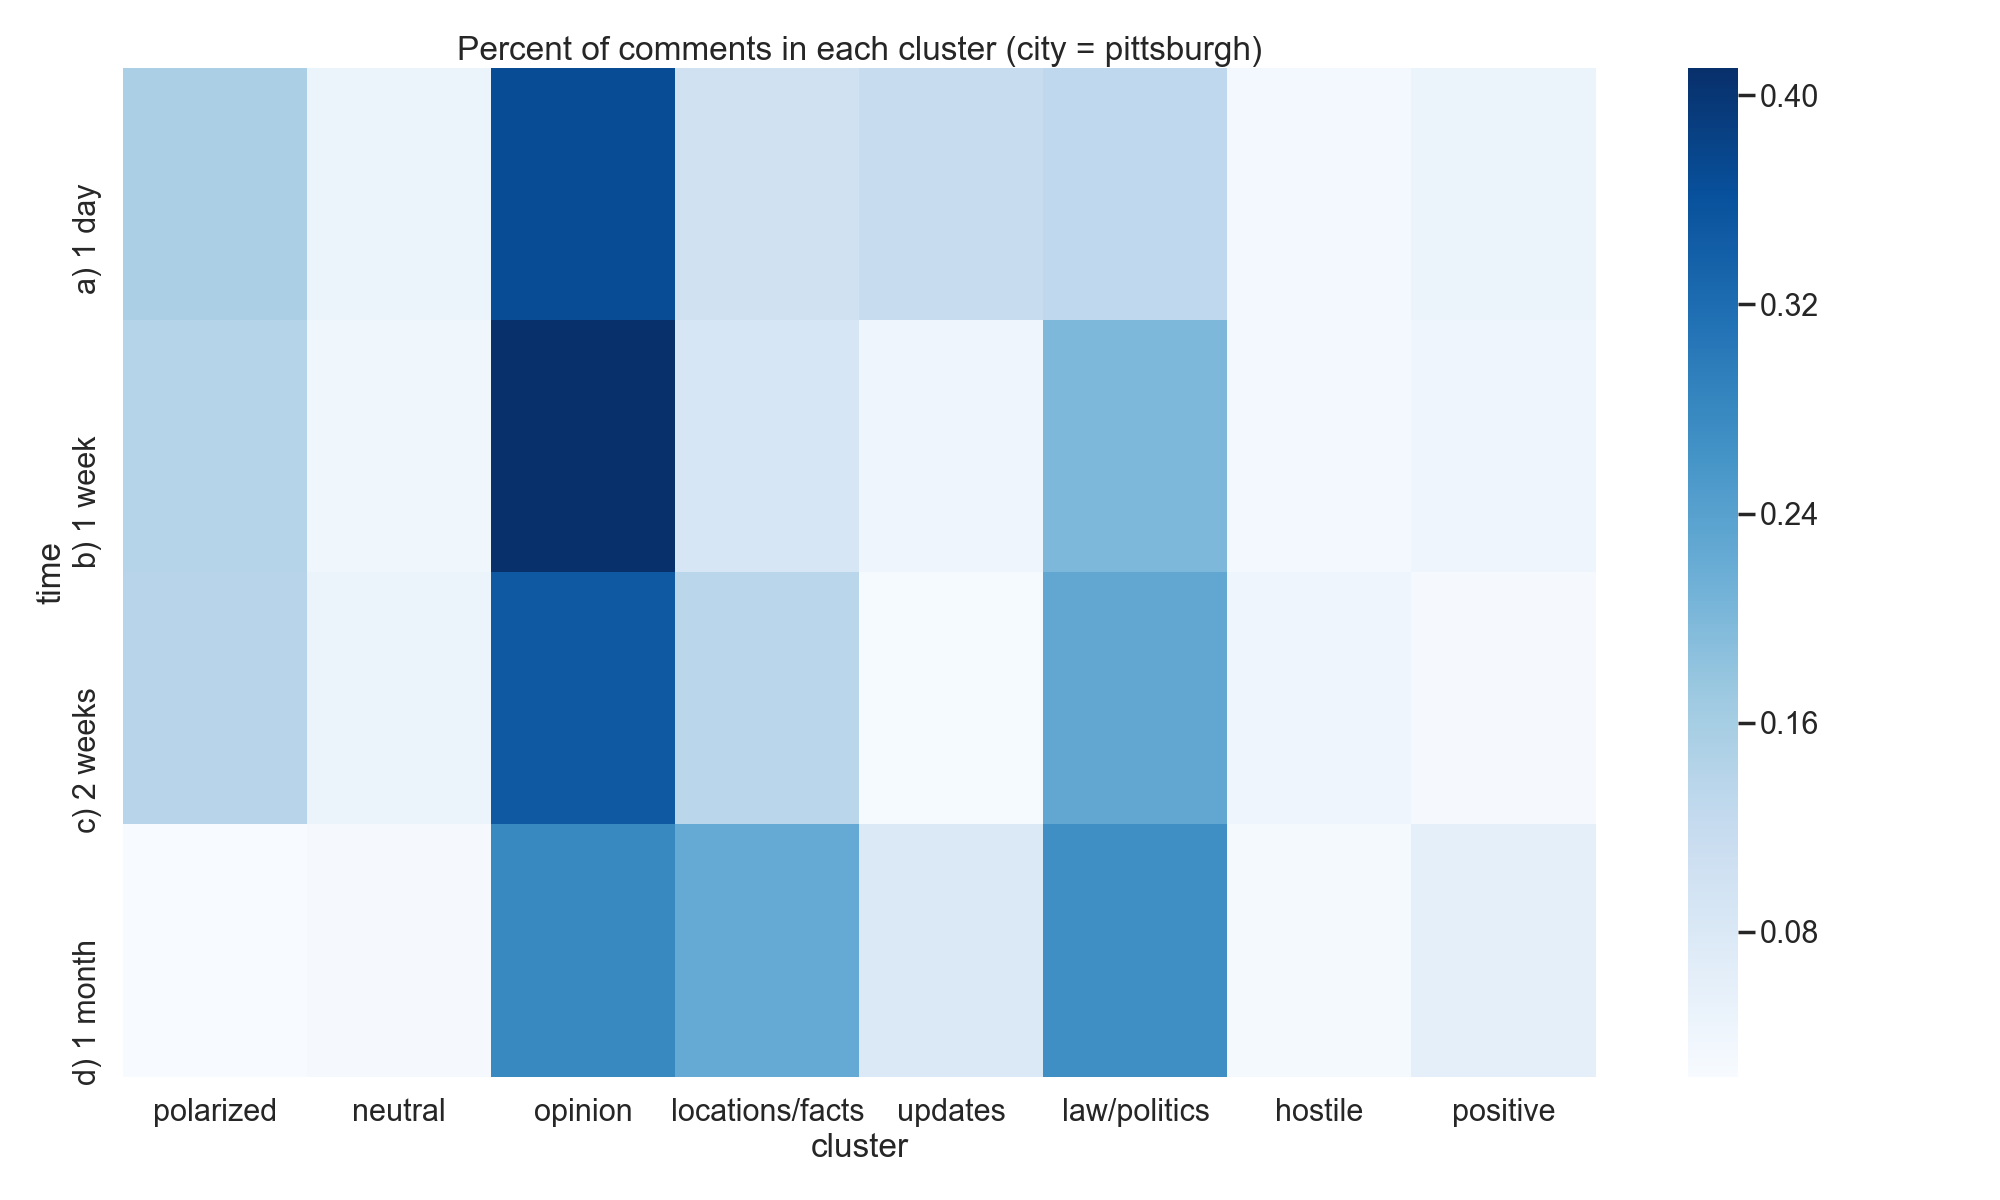
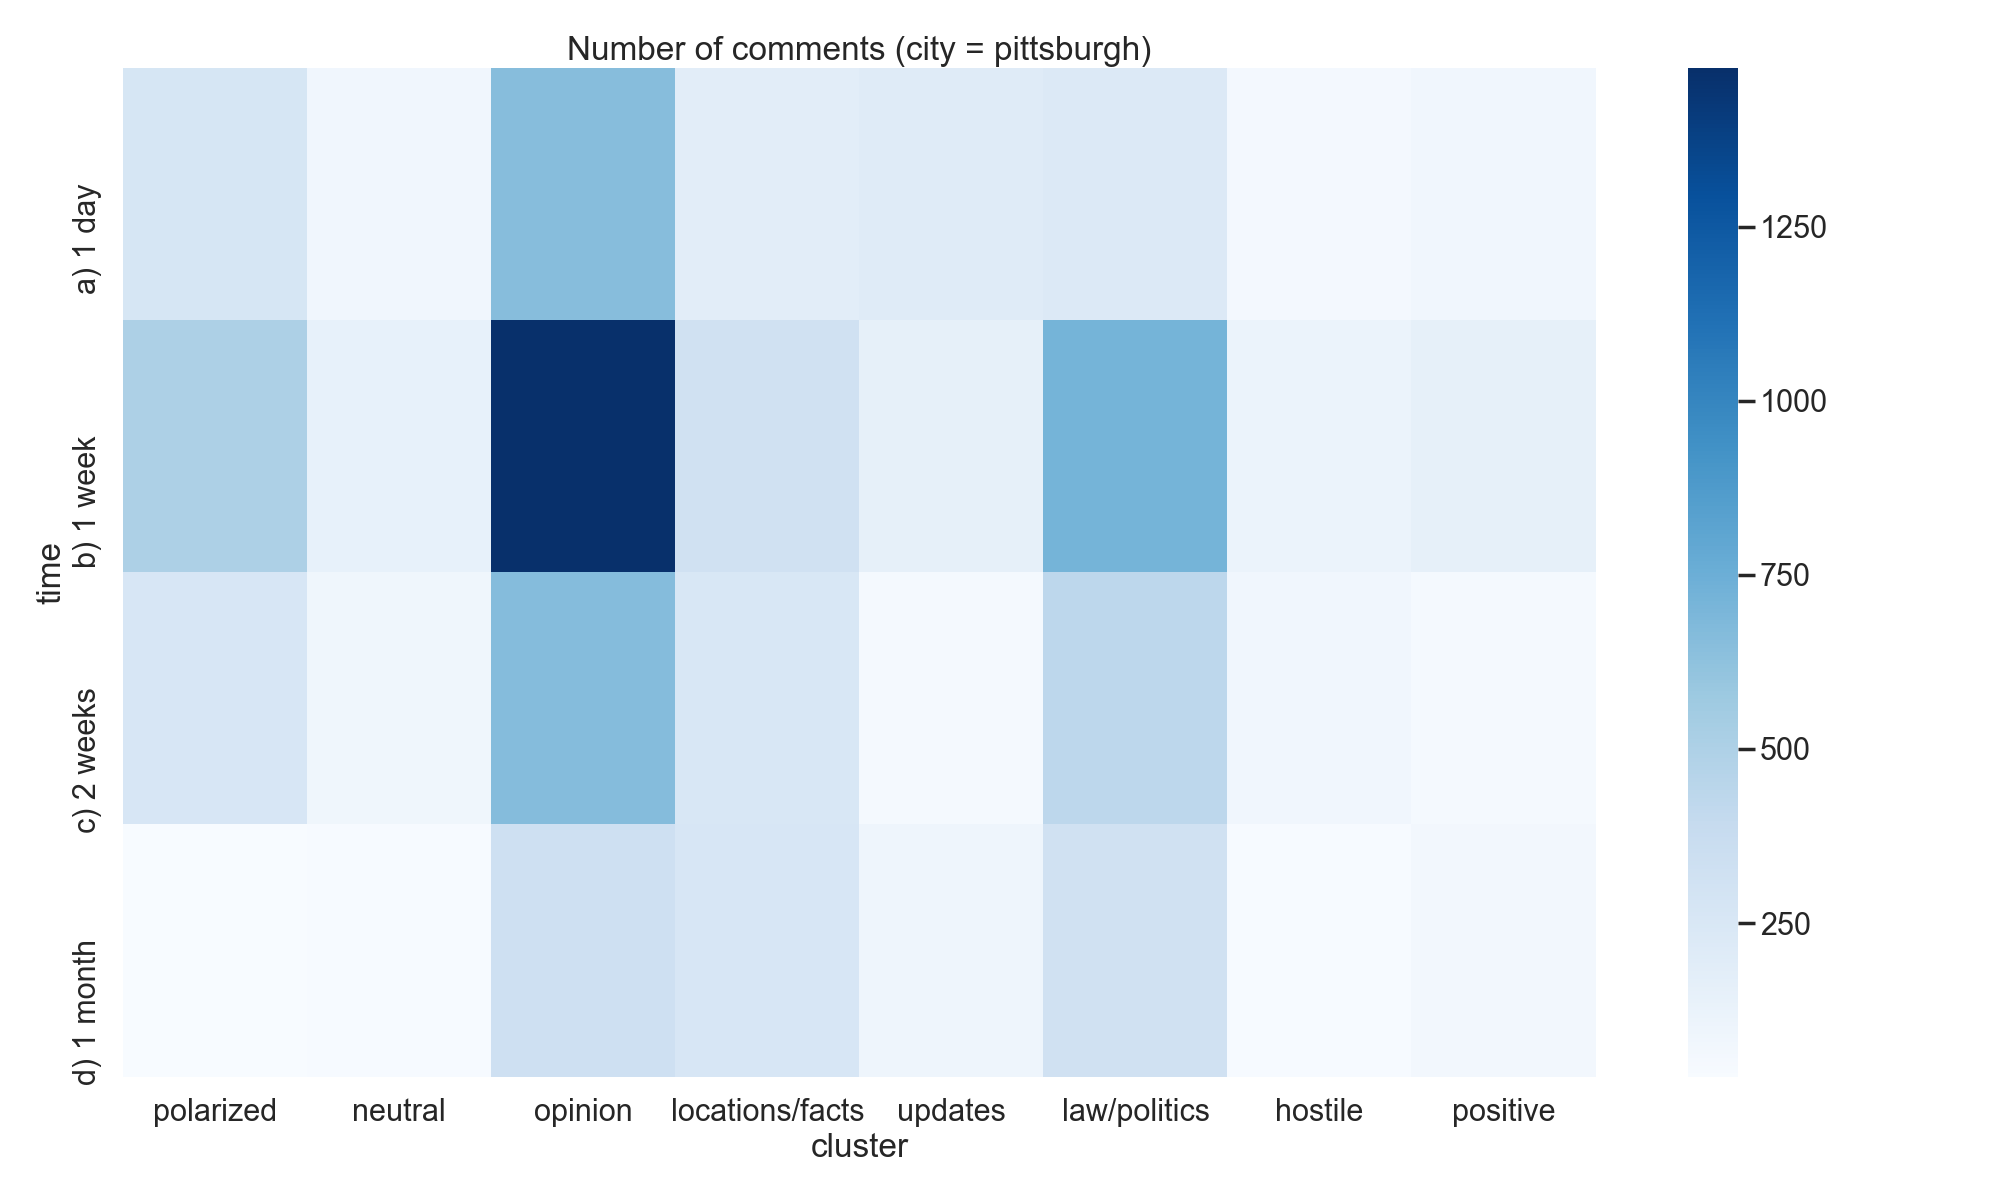
State of project before submission

diff --git a/microtime.py b/microtime.py
@@ -77,11 +77,11 @@ for comment_path, ref in zip(paths, refs):
         values='count', aggfunc=sum)
     chi2, p, dof, expected = chi2_contingency(df.values)
     fig, ax = plt.subplots(figsize=(20, 12))
-    for i in range(df.values.shape[0]):
-        df.values[i] = df.values[i] / df.values[i].sum()
+    # for i in range(df.values.shape[0]):
+    #     df.values[i] = df.values[i] / df.values[i].sum()
     sns.heatmap(df, ax=ax, cmap='Blues', xticklabels=xticks)
     plt.xticks(rotation='horizontal')
-    plt.title(f'Percent of comments in each cluster (city = {save_path})')
+    plt.title(f'Number of comments (city = {save_path})')
     plt.tight_layout()
     plt.savefig(f'microtime/{save_path}')
     with open(f'microtime/pval.txt', 'a') as f:
